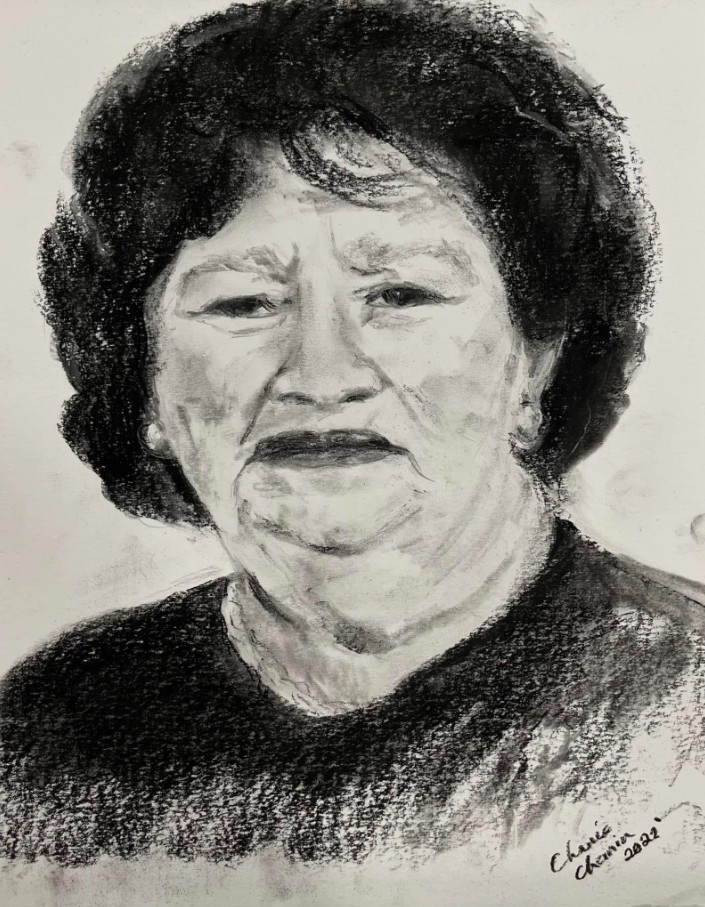
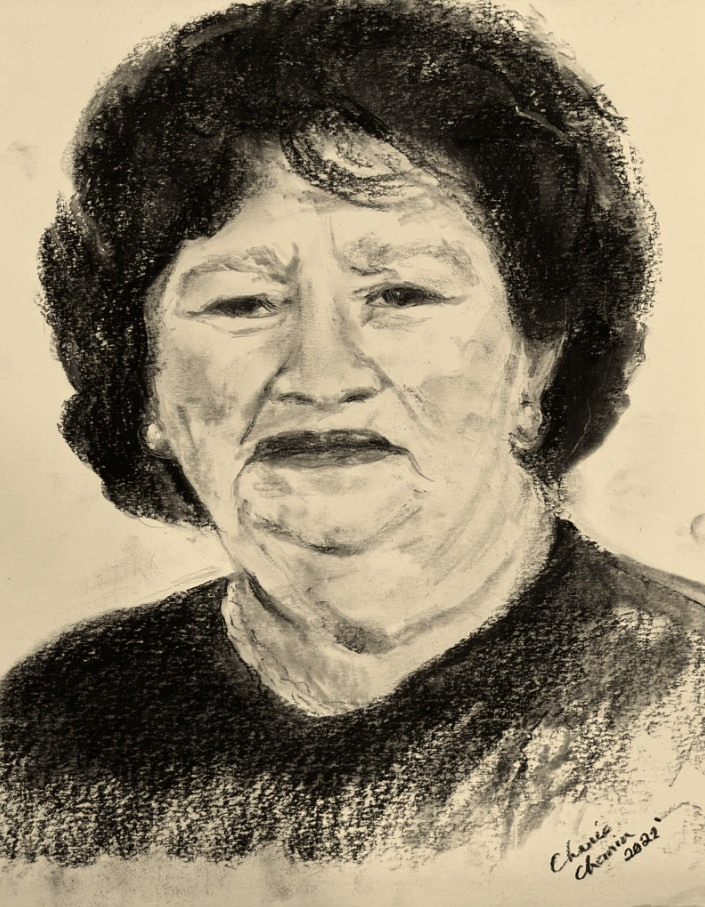
Apply uniform warm cream tone to all sketches; cache-bust image refs

diff --git a/js/data.js b/js/data.js
@@ -23,7 +23,7 @@ const PAINTINGS = [
     year: "2020",
     medium: "Charcoal on paper",
     size: "Dimensions on request",
-    image: "images/leibel-groner.jpg",
+    image: "images/leibel-groner.jpg?v=warm",
     featured: false,
     subtitle: "The man who stood beside the Rebbe.",
     story: [
@@ -40,7 +40,7 @@ const PAINTINGS = [
     year: "2021",
     medium: "Charcoal on paper",
     size: "Dimensions on request",
-    image: "images/chaim-bentzion-raskin.jpg",
+    image: "images/chaim-bentzion-raskin.jpg?v=warm",
     featured: false,
     subtitle: "The chossid near Moscow who poured out tears for his children's future.",
     story: [
@@ -57,7 +57,7 @@ const PAINTINGS = [
     year: "2020",
     medium: "Charcoal on paper",
     size: "Dimensions on request",
-    image: "images/rabbi-schwei.jpg",
+    image: "images/rabbi-schwei.jpg?v=warm",
     featured: false,
     subtitle: "A Rav on the Beis Din — and, to me, my personal Rav.",
     story: [
@@ -74,7 +74,7 @@ const PAINTINGS = [
     year: "2021",
     medium: "Charcoal on paper",
     size: "Dimensions on request",
-    image: "images/dayen-refson.jpg",
+    image: "images/dayen-refson.jpg?v=warm",
     featured: false,
     subtitle: "My uncle — always a happy, smiling hello.",
     story: [
@@ -90,7 +90,7 @@ const PAINTINGS = [
     year: "2021",
     medium: "Charcoal on paper",
     size: "Dimensions on request",
-    image: "images/rebbe-lag-baomer.jpg",
+    image: "images/rebbe-lag-baomer.jpg?v=warm",
     featured: false,
     subtitle: "A day of Jewish pride and unity.",
     story: [
@@ -107,7 +107,7 @@ const PAINTINGS = [
     year: "2022",
     medium: "Charcoal on paper",
     size: "Dimensions on request",
-    image: "images/yudi-dukes.jpg",
+    image: "images/yudi-dukes.jpg?v=warm",
     featured: false,
     subtitle: "Yudi, smiling.",
     story: [
@@ -124,7 +124,7 @@ const PAINTINGS = [
     year: "2022",
     medium: "Charcoal on paper",
     size: "Dimensions on request",
-    image: "images/bobba-bluma.jpg",
+    image: "images/bobba-bluma.jpg?v=warm",
     featured: false,
     subtitle: "A flower that blossomed again after the war.",
     story: [
@@ -140,7 +140,7 @@ const PAINTINGS = [
     year: "2023",
     medium: "Charcoal on paper",
     size: "Dimensions on request",
-    image: "images/michoel-katzenelenbogen.jpg",
+    image: "images/michoel-katzenelenbogen.jpg?v=warm",
     featured: false,
     subtitle: "My great-grandfather, who gave his life for his faith.",
     story: [
@@ -157,7 +157,7 @@ const PAINTINGS = [
     year: "2023",
     medium: "Charcoal on paper",
     size: "Dimensions on request",
-    image: "images/shlomo-mansour.jpg",
+    image: "images/shlomo-mansour.jpg?v=warm",
     featured: false,
     subtitle: "His name, Shlomo, means peace.",
     story: [
@@ -173,7 +173,7 @@ const PAINTINGS = [
     year: "2024",
     medium: "Charcoal on paper",
     size: "Dimensions on request",
-    image: "images/baila-stillerman.jpg",
+    image: "images/baila-stillerman.jpg?v=warm",
     featured: false,
     subtitle: "My dear grandmother — one of the roots of who I am.",
     story: [
@@ -190,7 +190,7 @@ const PAINTINGS = [
     year: "2024",
     medium: "Charcoal on paper",
     size: "Dimensions on request",
-    image: "images/moshe-katzenelbogen.jpg",
+    image: "images/moshe-katzenelbogen.jpg?v=warm",
     featured: false,
     subtitle: "My great-uncle — always happy and smiling, through everything.",
     story: [
@@ -208,7 +208,7 @@ const PAINTINGS = [
     year: "2024",
     medium: "Charcoal on paper",
     size: "Dimensions on request",
-    image: "images/agam-berger.jpg",
+    image: "images/agam-berger.jpg?v=warm",
     featured: false,
     subtitle: "A charcoal portrait of Agam Berger — home now, after so many prayers.",
     story: [
@@ -225,7 +225,7 @@ const PAINTINGS = [
     year: "2024",
     medium: "Charcoal on Bristol paper",
     size: "11 × 14 in",
-    image: "images/moshe-kotlarsky.jpg",
+    image: "images/moshe-kotlarsky.jpg?v=warm",
     featured: false,
     subtitle: "Drawn as Shluchim gather in Crown Heights for their yearly Kinus.",
     story: [
@@ -239,7 +239,7 @@ const PAINTINGS = [
     year: "",
     medium: "Charcoal on paper",
     size: "Dimensions on request",
-    image: "images/nimrod-cohen.jpg",
+    image: "images/nimrod-cohen.jpg?v=warm",
     featured: false,
     subtitle: "A charcoal portrait of Nimrod, held hostage in Gaza — now home.",
     story: [
@@ -255,7 +255,7 @@ const PAINTINGS = [
     year: "2024",
     medium: "Charcoal on Bristol paper",
     size: "11 × 14 in",
-    image: "images/gita-gansburg.jpg",
+    image: "images/gita-gansburg.jpg?v=warm",
     featured: false,
     subtitle: "Savta — dorm mother of Machon Chana for 38 years.",
     story: [
@@ -789,7 +789,7 @@ const PAINTINGS = [
     year: "",
     medium: "Charcoal on paper",
     size: "16 × 20 in",
-    image: "images/kos-shel-bracha.jpg",
+    image: "images/kos-shel-bracha.jpg?v=warm",
     featured: false,
     subtitle: "A special moment with the Rebbe.",
     story: [
